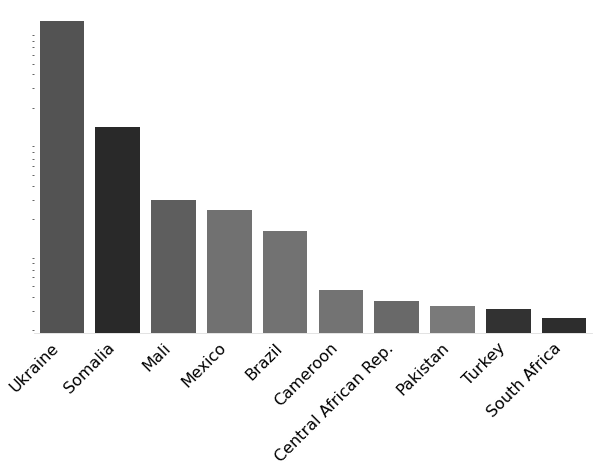
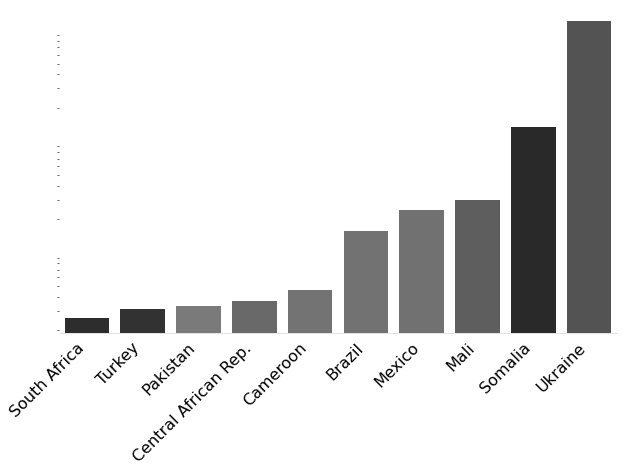
up pdf making

diff --git a/test.py b/test.py
@@ -290,6 +290,7 @@ df_plot = df_plot.sort_values('diff')
 df_plot_d = df_plot.iloc[:10]
 #df_plot_d['alpha'] = 1-df_plot_d['alpha']
 df_plot_d['diff'] = -df_plot_d['diff']
+df_plot_d = df_plot_d.sort_values('diff',ascending=True)
 
 plt.figure(figsize=(10, 6))
 ax = sns.barplot(x=df_plot_d.index, y='diff', data=df_plot_d, palette=df_plot_d['color'])
@@ -418,7 +419,7 @@ plt.box(False)
 plt.grid(axis='y', linestyle='--', alpha=0.7)
 plt.xticks(fontsize=20)  # Set x-axis tick font size
 plt.yticks(fontsize=20)
-#plt.legend(loc='upper left')
+plt.legend(fontsize=20)
 plt.savefig('Images/ex1_all.png', bbox_inches='tight')
 plt.show()
     
